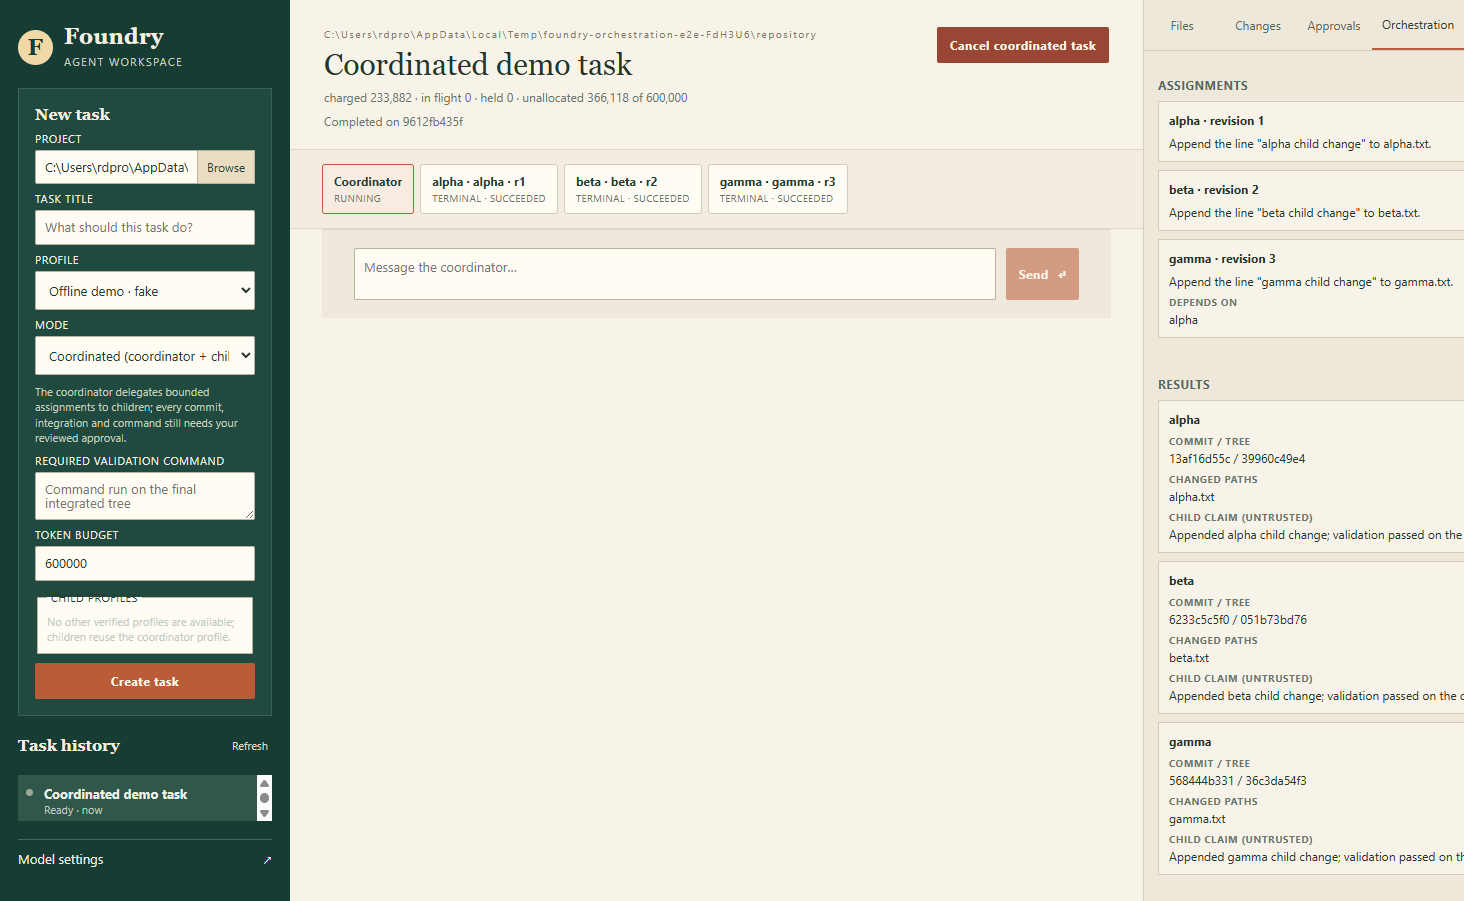
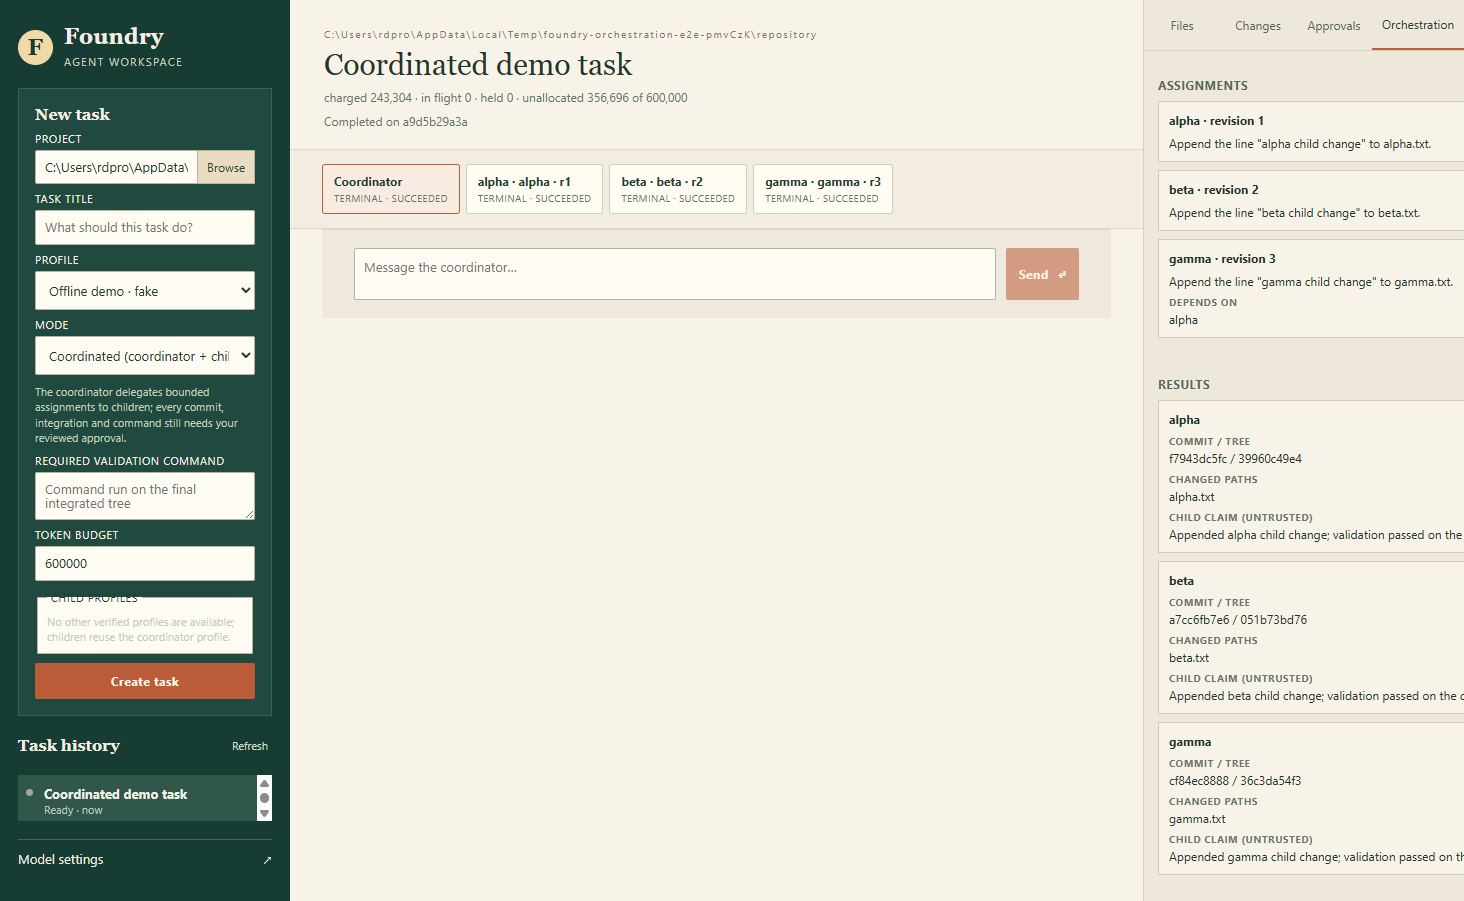
docs: record coordinated orchestration evidence, reviews and remaining gates
Documentation only. Code validated at 3e5385e; screenshots regenerated
by the final E2E run on that commit.

diff --git a/docs/implementation-status.md b/docs/implementation-status.md
@@ -1,4 +1,46 @@
-# Implementation status — reviewed coding increment
+# Implementation status
+
+## Coordinated orchestration increment
+
+Recorded 17 September 2026 (America/Chicago) on private branch `agent/claude/coordinator-orchestration`, a direct descendant of `f75d1ed` (0.2.0). This implements the [approved coordinator plan](coordinator-orchestration-plan.md). It is a local engineering build, not full v1 acceptance. Validated code commit: `3e5385e316248802296764ec10b01d0dae442cd8`; a following documentation-only commit records this evidence.
+
+### Delivered
+
+- Explicit `coordinated` task mode. Chat, Coding and records without `mode` keep their previous behavior; child agents never appear as top-level tasks and `task.send`/`task.cancel` on a child are rejected before any provider or repository activity.
+- SQLite schema v2: immutable assignments (at most eight revisions per task), depth-one agent runs with generation fencing, at most two admitted nonterminal children, dependencies, budget holds/reservations/settlements, deliver-once waits, handoff and integration operations, validation evidence and completion records. Database triggers enforce immutability, no resurrection, no reversal of fencing and retention. New databases start at v2. An existing v1 database opens unchanged; the desktop banner performs a separately confirmed upgrade that first creates a WAL-aware SQLite backup, verifies it (integrity, version, row counts), then migrates in one transaction. Rollback means opening the retained v1 backup with 0.2.0; v2 is never downgraded in place.
+- Aggregate budget authority: charged, in-flight, unused child holds and unallocated funds reconcile to the cap; 20% of the cap is protected for the coordinator; holds convert to reservations without double counting; settlement is idempotent; interrupted or unknown usage is retained in full; overruns are recorded and block admission.
+- Bounded scheduler: round-robin admission across tasks, the shared three-slot limit plus a two-request per-profile limit for coordinated runs, excess assignments unprovisioned with no worktree or hold, and dependent children admitted only after predecessors are integrated and the required combined validation passed on the current HEAD/tree. Dependencies resolve through assignment revisions.
+- Native coordinator tools (`delegate_assignments`, `await_children`, `integrate_result`, `complete_task`) and child tools (`commit_handoff`, `submit_handoff`) with role policy enforced at the runtime boundary. The coordinator waits without an execution slot and receives one bounded, redacted result per child. Child prose is labelled as an untrusted claim.
+- Scope policy: segment-aware, Windows case-insensitive read/write scopes; overlapping concurrent write scopes are rejected; `.git`, `.gitmodules`, `.gitattributes`, secret names, reserved names and traversal are denied; scope is enforced before file access and rechecked at commit and integration.
+- Typed Git operations with a sanitized environment (every inherited `GIT_*` variable stripped): exact-base child worktrees (filter attributes read from the base tree), one reviewed handoff commit per assignment (literal staging, blob/mode verification, `write-tree`/`commit-tree`/compare-and-swap `update-ref`), canonical effect manifests, serial `cherry-pick --no-edit -x` integration verified by parent and exact effect, preserved conflicts continued only with a newly approved resolved index tree, distinct blocked empty outcomes, and read-only reconciliation of unknown worktree creation, handoffs and integrations. Nothing resets, aborts, skips, cleans or deletes worktrees.
+- Bound approvals: every coordinated approval binds root, target agent, assignment revision, generation and fingerprint and is decided only through `orchestration.decide`; stale or sibling decisions fail. Validation evidence binds the exact command, working directory, timeout, HEAD, tree, clean state and verified cleanup; commands with model-supplied environment changes never count as validation. Completion requires every assignment integrated, no pending/unknown effect or conflict, a clean task worktree and passing combined validation on the exact current tree.
+- Scoped cancellation (child or whole task, fenced durably first) and restart recovery that never resumes paid inference or mutations: reservations are retained, approvals revoked, in-flight Git operations marked unknown, and explicit Resume reconciles read-only, starts only never-started children and delivers a recorded wait once.
+- Desktop: upgrade banner, coordinated task creation (child profiles, required validation command, budget), agent tree, aggregate budget and completion header, per-child read-only detail and assignment, bound approval cards with target labels and patches, orchestration tab (assignments with revision, results, integrations with check/continue, evidence, events), scoped cancel controls. The deterministic offline `/orchestrate-demo` fixture exercises two independent children and one dependent child.
+
+### Validation (owner-run on `3e5385e`)
+
+| Boundary | Evidence | Scope |
+| --- | --- | --- |
+| Types, lint, tests | `pnpm check`: **14 files, 145 tests passed** | 83 prior tests plus schema/upgrade/budget/constraints (15), scope (4), execution slots (2), Git operations (27) and orchestration integration (14) using real temporary Git repositories, SQLite and Windows commands with injected providers. |
+| Desktop user paths | `pnpm test:e2e`: **6 passed** | Prior Chat and Coding paths; full coordinated workflow through rendered approvals with real commits and restart; scoped child and root cancellation; IPC forgery rejection; v1 database with legacy history upgraded through the banner. |
[1 lines of base64/hex data omitted]
+| Independent review | Three read-only reviewers, none an author; fixes re-verified by the Git and QA reviewers | Security/IPC/credentials/persistence: one P2 (evidence environment binding) fixed. Git operations: two P1 (base-tree filter check, inherited `GIT_*`), one P2 (embedded repositories), one P3 fixed. QA/data integrity: one P0 (unknown worktree creation), one P1 (revisions orphaning dependents), one P2 (wait on unadmittable assignment), P3s fixed. Each fix has a regression test. |
+
+Logs are in `.local/validation/` of the implementation worktree (`final-check.log`, `final-e2e.log`, `final-package.log`, `final-smoke.log`, plus earlier `check-orchestration-*.log`). No live Azure request, CI run, remote publication, installer build, signing or clean-profile installation is claimed for this increment.
+
+### Known limits of this increment
+
+- Actual model-family qualification of the coordinator/child tool loop against real Foundry deployments is open; only injected transports and the offline fixture were exercised.
+- Git 2.40 or newer is required (`check-attr --source`); older Git fails closed with a generic Git error.
+- An unknown worktree creation, handoff or integration that reconciliation cannot prove stays blocked for manual inspection; there is no automated adoption or cleanup.
+- Worktree-creation crashes were exercised by injected failures, not by killing a real process mid-operation. Deletion-guard triggers are asserted only for child results.
+- Commands still run with the user's Windows privileges; scopes are checked on Git-visible changes, not enforced on process behavior.
+- The main-process frame/origin check is exercised only for main-frame IPC; a subframe sender is not separately tested.
+- The coordinator composer remains visible on a completed task (the runtime rejects the send), and the child-profile fieldset legend overlaps its border.
+
+---
+
+# Earlier increment — reviewed coding tools
 
 Recorded 17 September 2026 (America/Chicago), version 0.2.0. This is a local engineering build, not full v1 acceptance. The [original plan](foundry-agent-workspace-plan.html) remains the product baseline. Foundation commit: `6bbaef8`.
 
@@ -54,11 +96,11 @@ Final SHA-256 fingerprints:
 | 00 — Foundation verification | Local toolchain, native SQLite, package and installer path established. Actual Foundry deployment/authentication qualification remains open. |
 | 01 — Desktop, state, isolation | Core local paths implemented and exercised. Large-history ergonomics and worktree-creation reconciliation remain. |
 | 02 — Single-agent coding | Reviewed edits/commands, native tools, provider continuation, durable decisions, cancellation and conservative recovery implemented. Live model-family qualification remains open. |
-| 03 — Coordinator/specialists | Not implemented. Independent UI tasks are not coordinator delegation. |
+| 03 — Coordinator/specialists | Implemented locally in the coordinated orchestration increment above (not merged to main). Live model qualification remains open. |
 | 04 — Context/external tools | Budgets implemented; compaction, MCP, publish grants and worktree retirement remain. |
 | 05 — Windows release | Local candidate build and tests are separate from full release acceptance, signing and clean-profile install/uninstall. |
 
-Next implementation: durable coordinator assignments, child worktrees and dependencies, bounded scheduling, aggregate budgets, serial integration, and combined-result validation. These remain v1 requirements. Continue with compaction, MCP under the same approval policy, explicit commit/publish grants, diagnostics, and safe worktree retirement.
+Next implementation: continue with compaction, MCP under the same approval policy, explicit commit/publish grants, diagnostics, and safe worktree retirement.
 
 Open qualification: actual user-selected Azure deployments, Entra/sovereign/custom-endpoint support, model-specific reasoning settings, full security/recovery matrix, clean Windows-profile installation/uninstallation, signing, and distribution/license notice review. Routine tests must not discover credentials or make paid probes.
 
@@ -70,7 +112,7 @@ Open qualification: actual user-selected Azure deployments, Entra/sovereign/cust
 - History pagination/export, compaction, remembered approvals, automatic runtime restart, provider fallback, updating, browser tools, scheduling and cloud hosting are absent. RPC/history limits fail visibly without deleting retained history.
 - The runtime uses Git HEAD when creating worktrees; source uncommitted changes are preserved in the source checkout and are not copied. No implicit fetch, commit, push, PR, merge or worktree deletion occurs.
 - Secret screening and same-user filesystem checks are defense in depth. Commands can act outside the worktree with the approved user's rights. Windows Job cleanup is not a security sandbox or proof that every external side effect was undone.
-- Native SQLite schema remains version 1. This increment reuses existing JSON records/intents; no database migration was introduced.
+- This earlier increment used schema version 1. The orchestration increment introduces v2 with an explicit, backed-up upgrade.
 - Command freshness checks currently fingerprint at most 10,000 files / 64 MiB of worktree content and reject larger trees, including large dependency folders. Commands start with a Windows-only PATH; use an explicit developer-tool path or set PATH in the reviewed script. Broader developer-tool discovery and scalable fingerprints remain usability work.
 
 ## Ownership and routing

diff --git a/docs/coordinator-orchestration-plan.md b/docs/coordinator-orchestration-plan.md
@@ -1,6 +1,6 @@
 # Coordinator and child orchestration — implementation plan
 
-**Status: proposed; awaiting Rudy's approval.** Prepared 17 September 2026 against `f75d1edde5b467049aed4edb51a768520305958c` (0.2.0). This document is the only planned repository change in this planning turn. None of the orchestration behavior below has been implemented or validated yet.
+**Status: approved by Rudy and implemented locally on branch `agent/claude/coordinator-orchestration`.** Prepared 17 September 2026 against `f75d1edde5b467049aed4edb51a768520305958c` (0.2.0). Actual delivered behavior, validation evidence, review findings and remaining gates are recorded in [implementation status](implementation-status.md); the design text below is retained as the approved requirement, not as evidence.
 
 The [product baseline](foundry-agent-workspace-plan.html#safety) and [current implementation status](implementation-status.md) remain authoritative for scope and existing evidence. The baseline's phase 03 requires coordinator-led delegation, isolated children, serial integration, aggregate budgets, and combined-result validation. Parallel independent chats do not meet that requirement.
 
